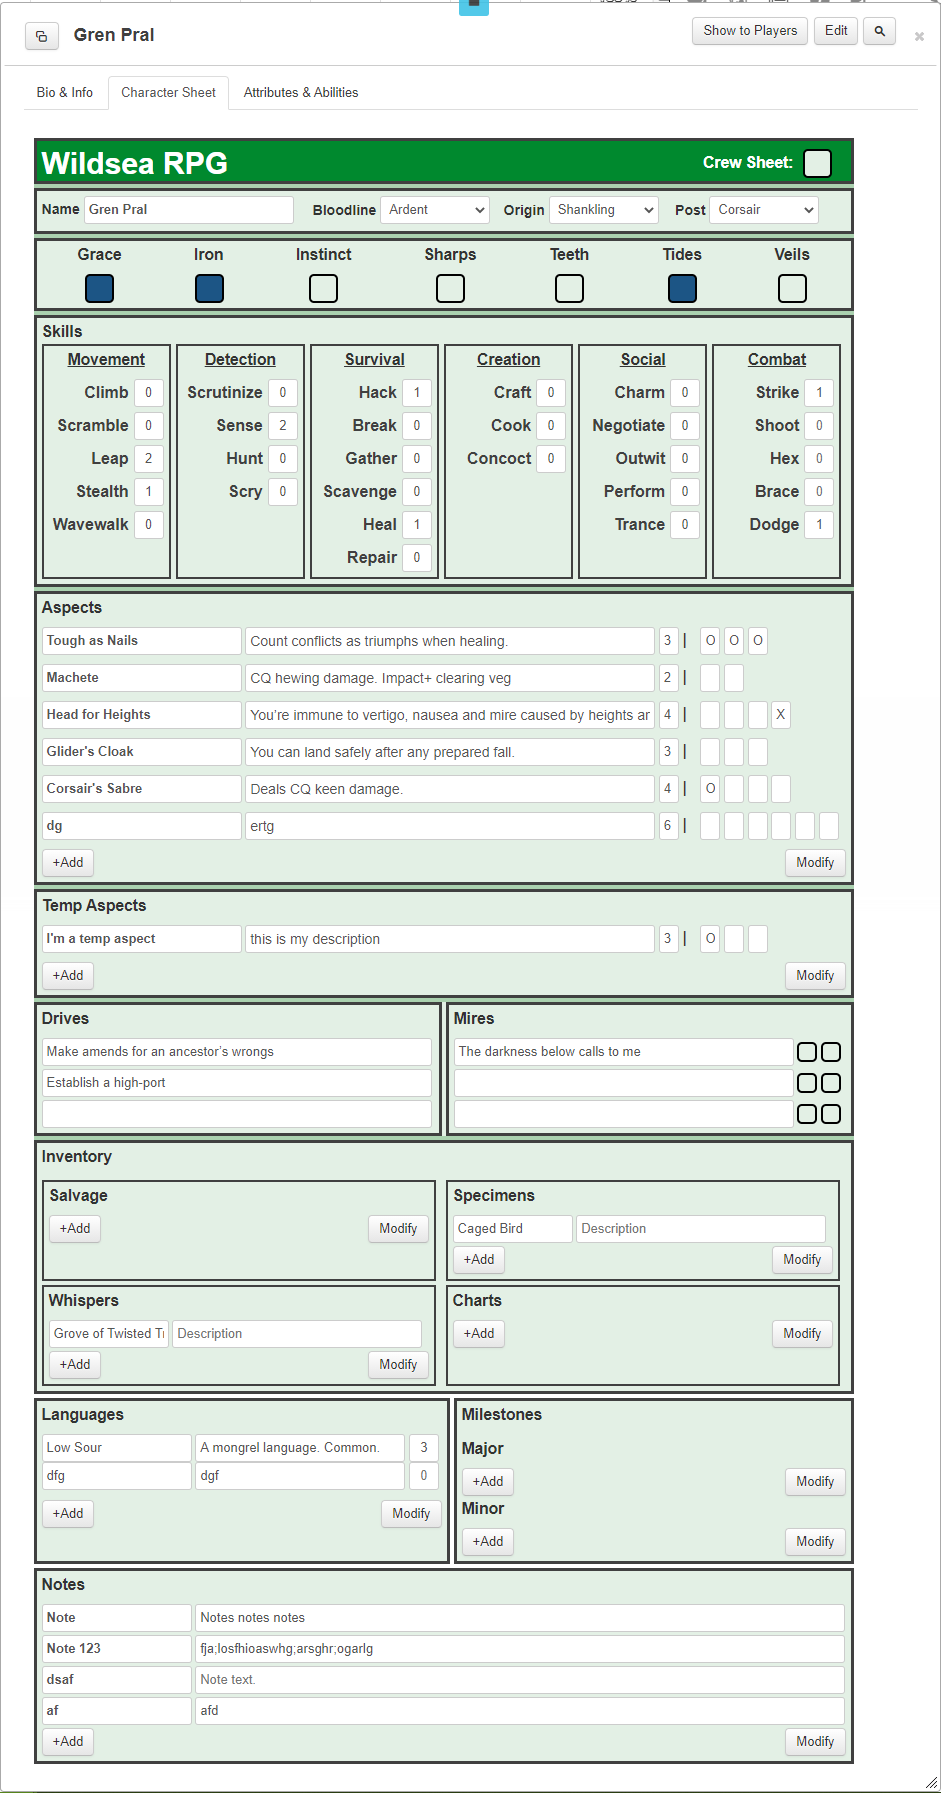
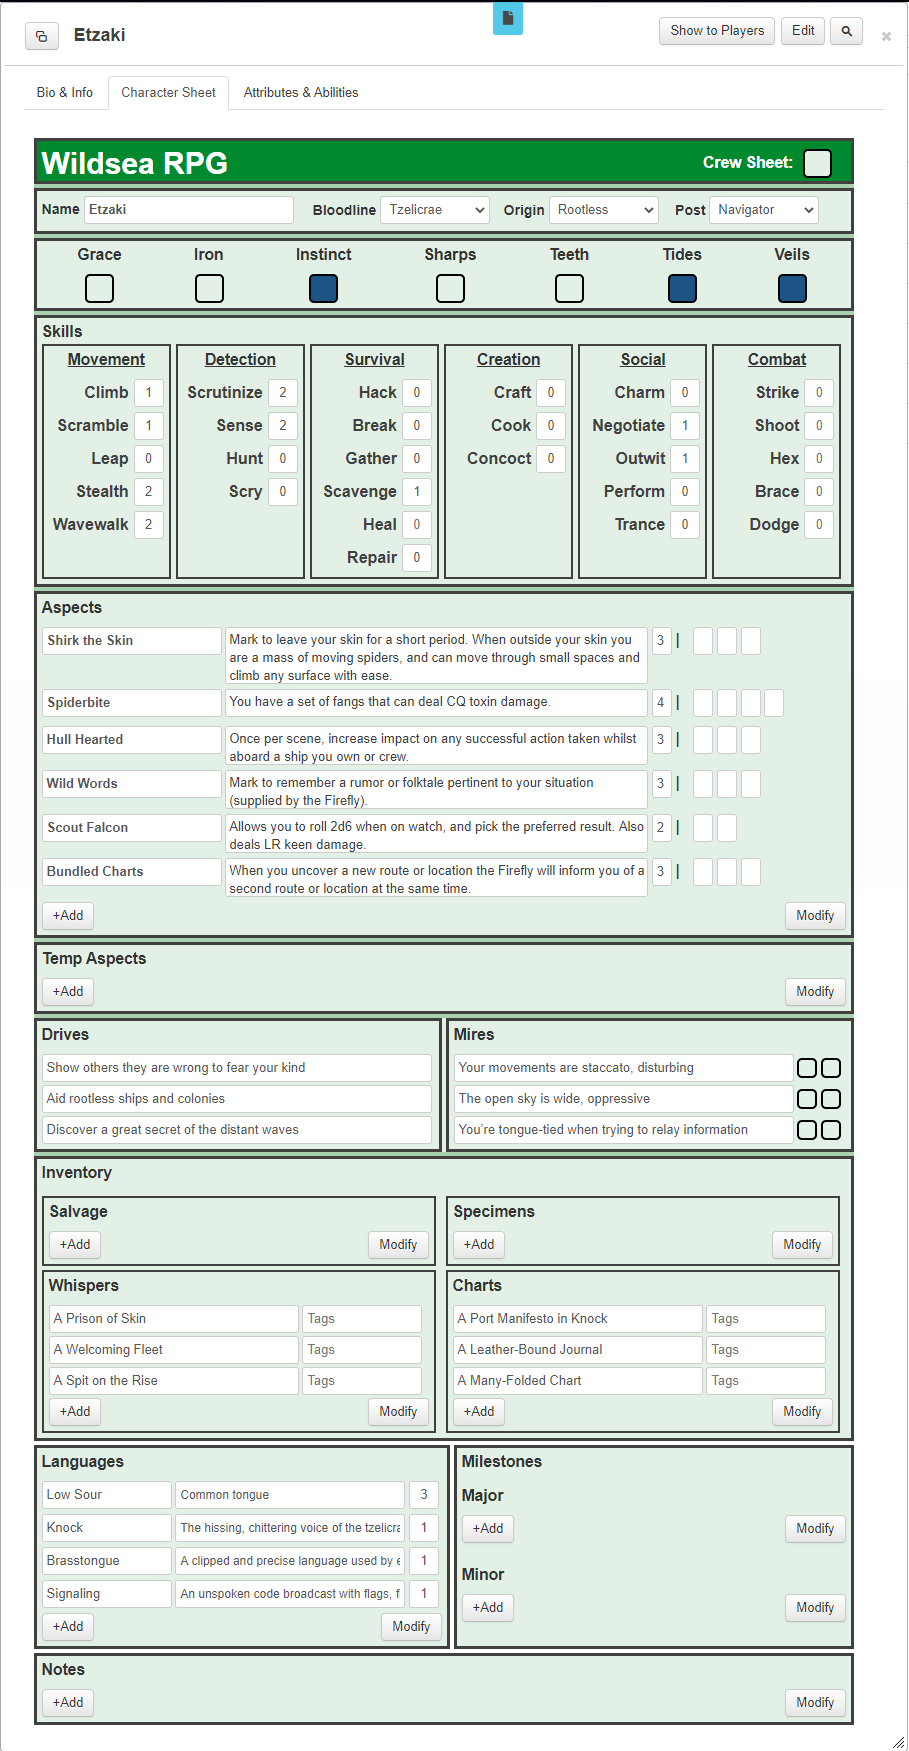
Make description boxes expand to fit content, remove preset language, update preview images, fix bugs

diff --git a/wildsea.html b/wildsea.html
@@ -13,7 +13,7 @@
     <div class="character">
         <div class="common section">
             <div class="name sectionNoBorder">
-                <label>Name  <input class="bold" type="text" name="attr_name"/></label>
+                <label>Name  <input class="bold" type="text" name="attr_character_name"/></label>
             </div>
             
             <div class="bloodline sectionNoBorder">
@@ -141,35 +141,35 @@
         <div class="drivmir drivmirSection">
             <div class="drives section">
                 <label>Drives</label>
-                <input type="text" name="attr_drive1">
+                <input type="text" name="attr_drive1" placeholder="Drive 1">
                 
                 <!-- blank space -->
                 <div style="height:3px;"></div>
                 
-                <input type="text" name="attr_drive2">
+                <input type="text" name="attr_drive2" placeholder="Drive 2">
                 
                 <!-- blank space -->
                 <div style="height:3px;"></div>
                 
-                <input type="text" name="attr_drive3">
+                <input type="text" name="attr_drive3" placeholder="Drive 3">
             </div>
             <div class="mires section">
                 <label>Mires</label>
-                    <input type="text" name="attr_mire1">
+                    <input type="text" name="attr_mire1" placeholder="Mire 1">
                     <input type="checkbox" name="attr_mire1Charge1"><span></span>
                     <input type="checkbox" name="attr_mire1Charge2"><span></span>
                     
                     <!-- blank space -->
                     <div style="height:3px;"></div>
                     
-                    <input type="text" name="attr_mire2">
+                    <input type="text" name="attr_mire2" placeholder="Mire 2">
                     <input type="checkbox" name="attr_mire2Charge1"><span></span>
                     <input type="checkbox" name="attr_mire2Charge2"><span></span>
                     
                     <!-- blank space -->
                     <div style="height:3px;"></div>
                     
-                    <input type="text" name="attr_mire3">
+                    <input type="text" name="attr_mire3" placeholder="Mire 3">
                     <input type="checkbox" name="attr_mire3Charge1"><span></span>
                     <input type="checkbox" name="attr_mire3Charge2"><span></span>
             </div>
@@ -177,16 +177,13 @@
         
         <div class="lang section">
             <label>Languages</label>
-            <input class="shorterBox" type="text" name="attr_lowSour" value="Low Sour">
-            <input type="text" name="attr_langDescription" value="A mongrel language. Common.">
-            <input type="number" name="attr_lowSour" value=3>
             <fieldset class="repeating_lang">
                 <input class="shorterBox" type="text" name="attr_lang" placeholder="Language">
-                <input type="text" name="attr_langDescription" placeholder="Description">
+                <input style="width:230px; font-size: 12px;" type="text" name="attr_langDescription" placeholder="Description/Spoken By">
                 <input type="number" name="attr_langRating" placeholder="0">
                 
                 <!-- blank space -->
-                <div style="height:10px; display:block;"></div>
+                <div style="height:5px; display:block;"></div>
             </fieldset>
         </div>
         
@@ -195,7 +192,7 @@
             <div class="major sectionNoBorder">
                 <label>Major</label>
                 <fieldset class="repeating_majorMilestones">
-                    <input type="text" name="attr_majorMilestone">
+                    <input type="text" name="attr_majorMilestone" placeholder="Major Milestone">
                     
                     <!-- blank space -->
                     <div style="height:3px;"></div>
@@ -204,7 +201,7 @@
             <div class="minor sectionNoBorder">
                 <label>Minor</label>
                 <fieldset class="repeating_minorMilestones">
-                    <input type="text" name="attr_minorMilestone">
+                    <input type="text" name="attr_minorMilestone" placeholder="Minor Milestone">
                     
                     <!-- blank space -->
                     <div style="height:3px;"></div>
@@ -216,7 +213,11 @@
             <label>Aspects</label>
             <fieldset class="repeating_aspects">
                 <input class="aspectTitle" type="text" name="attr_aspect" placeholder="Aspect">
-                <input class="aspectDesc" type="text" name="attr_aspectDescription" placeholder="Rule">
+                
+                <div class="sheet-auto-expand">
+                    <span name="attr_aspect_description"></span>
+                    <textarea name="attr_aspect_description" placeholder="Description"></textarea>
+                </div>
                 
                 <select name="attr_aspectLength">
                     <option value="1">1</option>
@@ -272,8 +273,12 @@
         <div class="temp section">
             <label>Temp Aspects</label>
             <fieldset class="repeating_tempAspects">
-                <input class="aspectTitle" type="text" name="attr_aspect" placeholder="Aspect">
-                <input class="aspectDesc" type="text" name="attr_aspectDescription" placeholder="Rule">
+                <input class="aspectTitle" type="text" name="attr_temp_aspect" placeholder="Aspect">
+                
+                <div class="sheet-auto-expand">
+                    <span name="attr_temp_description"></span>
+                    <textarea name="attr_temp_description" placeholder="Description"></textarea>
+                </div>
                 
                 <select name="attr_tempAspectLength">
                     <option value="1">1</option>
@@ -331,8 +336,8 @@
             <div class="salvage skillSection">
                 <label>Salvage</label>
                 <fieldset class="repeating_salvage">
-                    <input style="width:120px;" type="test" name="attr_savageName" placeholder="Name">
-                    <input type="text" name="attr_salvageDesc" placeholder="Description">
+                    <input class="inv-name" type="test" name="attr_salvageName" placeholder="Name">
+                    <input class="inv-tag" type="text" name="attr_salvageTags" placeholder="Tags"
                     
                     <!-- blank space -->
                     <div style="height:3px;"></div>
@@ -341,8 +346,8 @@
             <div class="specimens skillSection">
                 <label>Specimens</label>
                 <fieldset class="repeating_specimens">
-                    <input style="width:120px;" type="text" name="attr_specimenName" placeholder="Name">
-                    <input type="text" name="attr_specimenDesc" placeholder="Description">
+                    <input class="inv-name" type="text" name="attr_specimenName" placeholder="Name">
+                    <input class="inv-tag" type="text" name="attr_specimenTags" placeholder="Tags"
                     
                     <!-- blank space -->
                     <div style="height:3px;"></div>
@@ -351,8 +356,8 @@
             <div class="whispers skillSection">
                 <label>Whispers</label>
                 <fieldset class="repeating_whispers">
-                    <input style="width:120px;" type="text" name="attr_whisperName" placeholder="Name">
-                    <input type="text" name="attr_whisperDesc" placeholder="Description">
+                    <input class="inv-name" type="text" name="attr_whisperName" placeholder="Name">
+                    <input class="inv-tag" type="text" name="attr_whisperTags" placeholder="Tags"
                     
                     <!-- blank space -->
                     <div style="height:3px;"></div>
@@ -361,8 +366,8 @@
             <div class="charts skillSection">
                 <label>Charts</label>
                 <fieldset class="repeating_charts">
-                    <input style="width:120px;" type="text" name="attr_chartName" placeholder="Name">
-                    <input type="text" name="attr_chartDesc" placeholder="Description">
+                    <input class="inv-name" type="text" name="attr_chartName" placeholder="Name">
+                    <input class="inv-tag" type="text" name="attr_chartTags" placeholder="Tags"
                     
                     <!-- blank space -->
                     <div style="height:3px;"></div>
@@ -385,17 +390,31 @@
     <!-- CREW SHEET -->
     <div class="crew">
         <div class="crew-common section">
-            <label>Name  <input style="font-weight:bold; width:250px;" type="text" name="attr_crew_name"/></label>
+            <label>Name  <input style="font-weight:bold; width:250px;" type="text" name="attr_character_name"/></label>
             <label>Description <input style="width:390px;" type="text" name="attr_crew_description"></label>
         </div>
         
         <div class="design section">
             <label>Design</label>
-            <label>Size <input type="text" name="attr_crew_size"></label>
-            <label>Frame <input type="text" name="attr_crew_frame"></label>
-            <label>Hull <input type="text" name="attr_crew_hull"></label>
-            <label>Bite <input type="text" name="attr_crew_bite"></label>
-            <label>Engine <input type="text" name="attr_crew_engine"></label>
+            
+            <label class="design-name">Size </label>
+            <input class="design-description" type="text" name="attr_crew_size" placeholder="Name">
+            <input class="design-effects" type="text" name="attr_crew_size_effects" placeholder="Ratings increased">
+            
+            <label class="design-name">Frame </label>
+            <input class="design-description" type="text" name="attr_crew_frame" placeholder="Name">
+            <input class="design-effects" type="text" name="attr_crew_frame_effects" placeholder="Ratings increased">
+            
+            <label class="design-name">Hull </label><input class="design-description" type="text" name="attr_crew_hull" placeholder="Name">
+            <input class="design-effects" type="text" name="attr_crew_hull_effects" placeholder="Ratings increased">
+            
+            <label class="design-name">Bite </label>
+            <input class="design-description" type="text" name="attr_crew_bite" placeholder="Name">
+            <input class="design-effects" type="text" name="attr_crew_bite_effects" placeholder="Ratings increased">
+            
+            <label class="design-name">Engine </label>
+            <input class="design-description" type="text" name="attr_crew_engine" placeholder="Name">
+            <input class="design-effects" type="text" name="attr_crew_engine_effects" placeholder="Ratings increased">
         </div>
         
         <div class="ratings section">
@@ -745,7 +764,12 @@
                     <option value="room">Room</option>
                 </select>
                 <input class="bold" type="text" name="attr_crew_adjustment_title" placeholder="Name">
-                <input style="width:450px;" type="text" name="attr_crew_adjustment_desc" placeholder="Description">
+                
+                <div class="sheet-auto-expand">
+                    <span name="attr_temp_description"></span>
+                    <textarea name="attr_temp_description"></textarea>
+                </div>
+                
             </fieldset>
         </div>
         
@@ -775,7 +799,11 @@
             <label>Undercrew</label>
             <fieldset class="repeating_crewUndercrew">
                 <input class="undercrewTitle" type="text" name="attr_crew_undercrew_title" placeholder="Name">
-                <input class="undercrewDesc" type="text" name="attr_crew_undercrew_description" placeholder="Description">
+                
+                <div class="sheet-auto-expand">
+                    <span name="attr_undercrew_description"></span>
+                    <textarea name="attr_undercrew_description"></textarea>
+                </div>
                 
                 <select name="attr_crew_undercrew_length">
                     <option value="1">1</option>

diff --git a/wildsea.css b/wildsea.css
@@ -240,7 +240,7 @@
 }
 
 .sheet-shorterBox {
-    width: 150px;
+    width: 130px;
 }
 
 /*************************/
@@ -251,14 +251,56 @@
     width: 804px;
 }
 
-.sheet-aspectDesc {
-    width: 410px;
-    font-size: 14px;
+/*******************/
+
+.sheet-auto-expand {
+	position: relative;
+	cursor: text;
+	word-wrap: break-word;
+    box-shadow: 1px;
+	width: 420px;
+    min-height: 25px;
+    display: inline-block;
+    vertical-align: top;
+    margin-bottom: 5px;
+    padding-top: 3px;
+    padding-left: 3px;
 }
+
+.sheet-auto-expand span {
+	visibility: hidden;
+	white-space: pre-wrap;
+	display: block;
+}
+
+.sheet-auto-expand textarea {
+	position: absolute;
+	z-index: 1;
+	top: 0;
+	left: 0;
+	margin: 0;
+	overflow: hidden;
+	resize: none;
+	height: 100%;
+	width: 100%;
+	display: block;
+	box-sizing: border-box;
+	color: inherit;
+	font: inherit;
+	letter-spacing: inherit;
+	padding: inherit;
+	text-align: inherit;
+	text-transform: inherit;
+}
+
+
+/*******************/
 
 .sheet-aspectTitle {
     font-weight: 700;
-    width: 200px;
+    width: 180px;
+    height: 25px;
+    vertical-align: top;
 }
 
 .sheet-bold {
@@ -321,7 +363,6 @@
 }
 
 .sheet-skills span {
-    display: inline-block;
     text-align: right;
     float: right;
 }
@@ -389,8 +430,14 @@
                         "whispers charts";
 }
 
-.sheet-inv input[type=text] {
+.sheet-inv-name {
     width: 250px;
+    display: inline;
+}
+
+.sheet-inv-tag {
+    width: 120px;
+    display: inline;
 }
 
 .sheet-salvage {
@@ -684,16 +731,23 @@ input[type=number] {
     width: 392px;
 }
 
-.sheet-design label {
-    display: inline-block;
+.sheet-design-name {
+    float: left;
+    clear: left;
+    width: 50px;
+    margin-top: 5px;
     text-align: left;
 }
 
-.sheet-design input[type="text"] {
-    display: inline-block;
-    width: 330px;
+.sheet-design-description {
+    width: 190px;
+    float: left;
+}
+
+.sheet-design-effects {
+    width: 140px;
     float: right;
-    margin-top: -5px;
+    margin-left: 2px;
 }
 
 .sheet-ratings {
